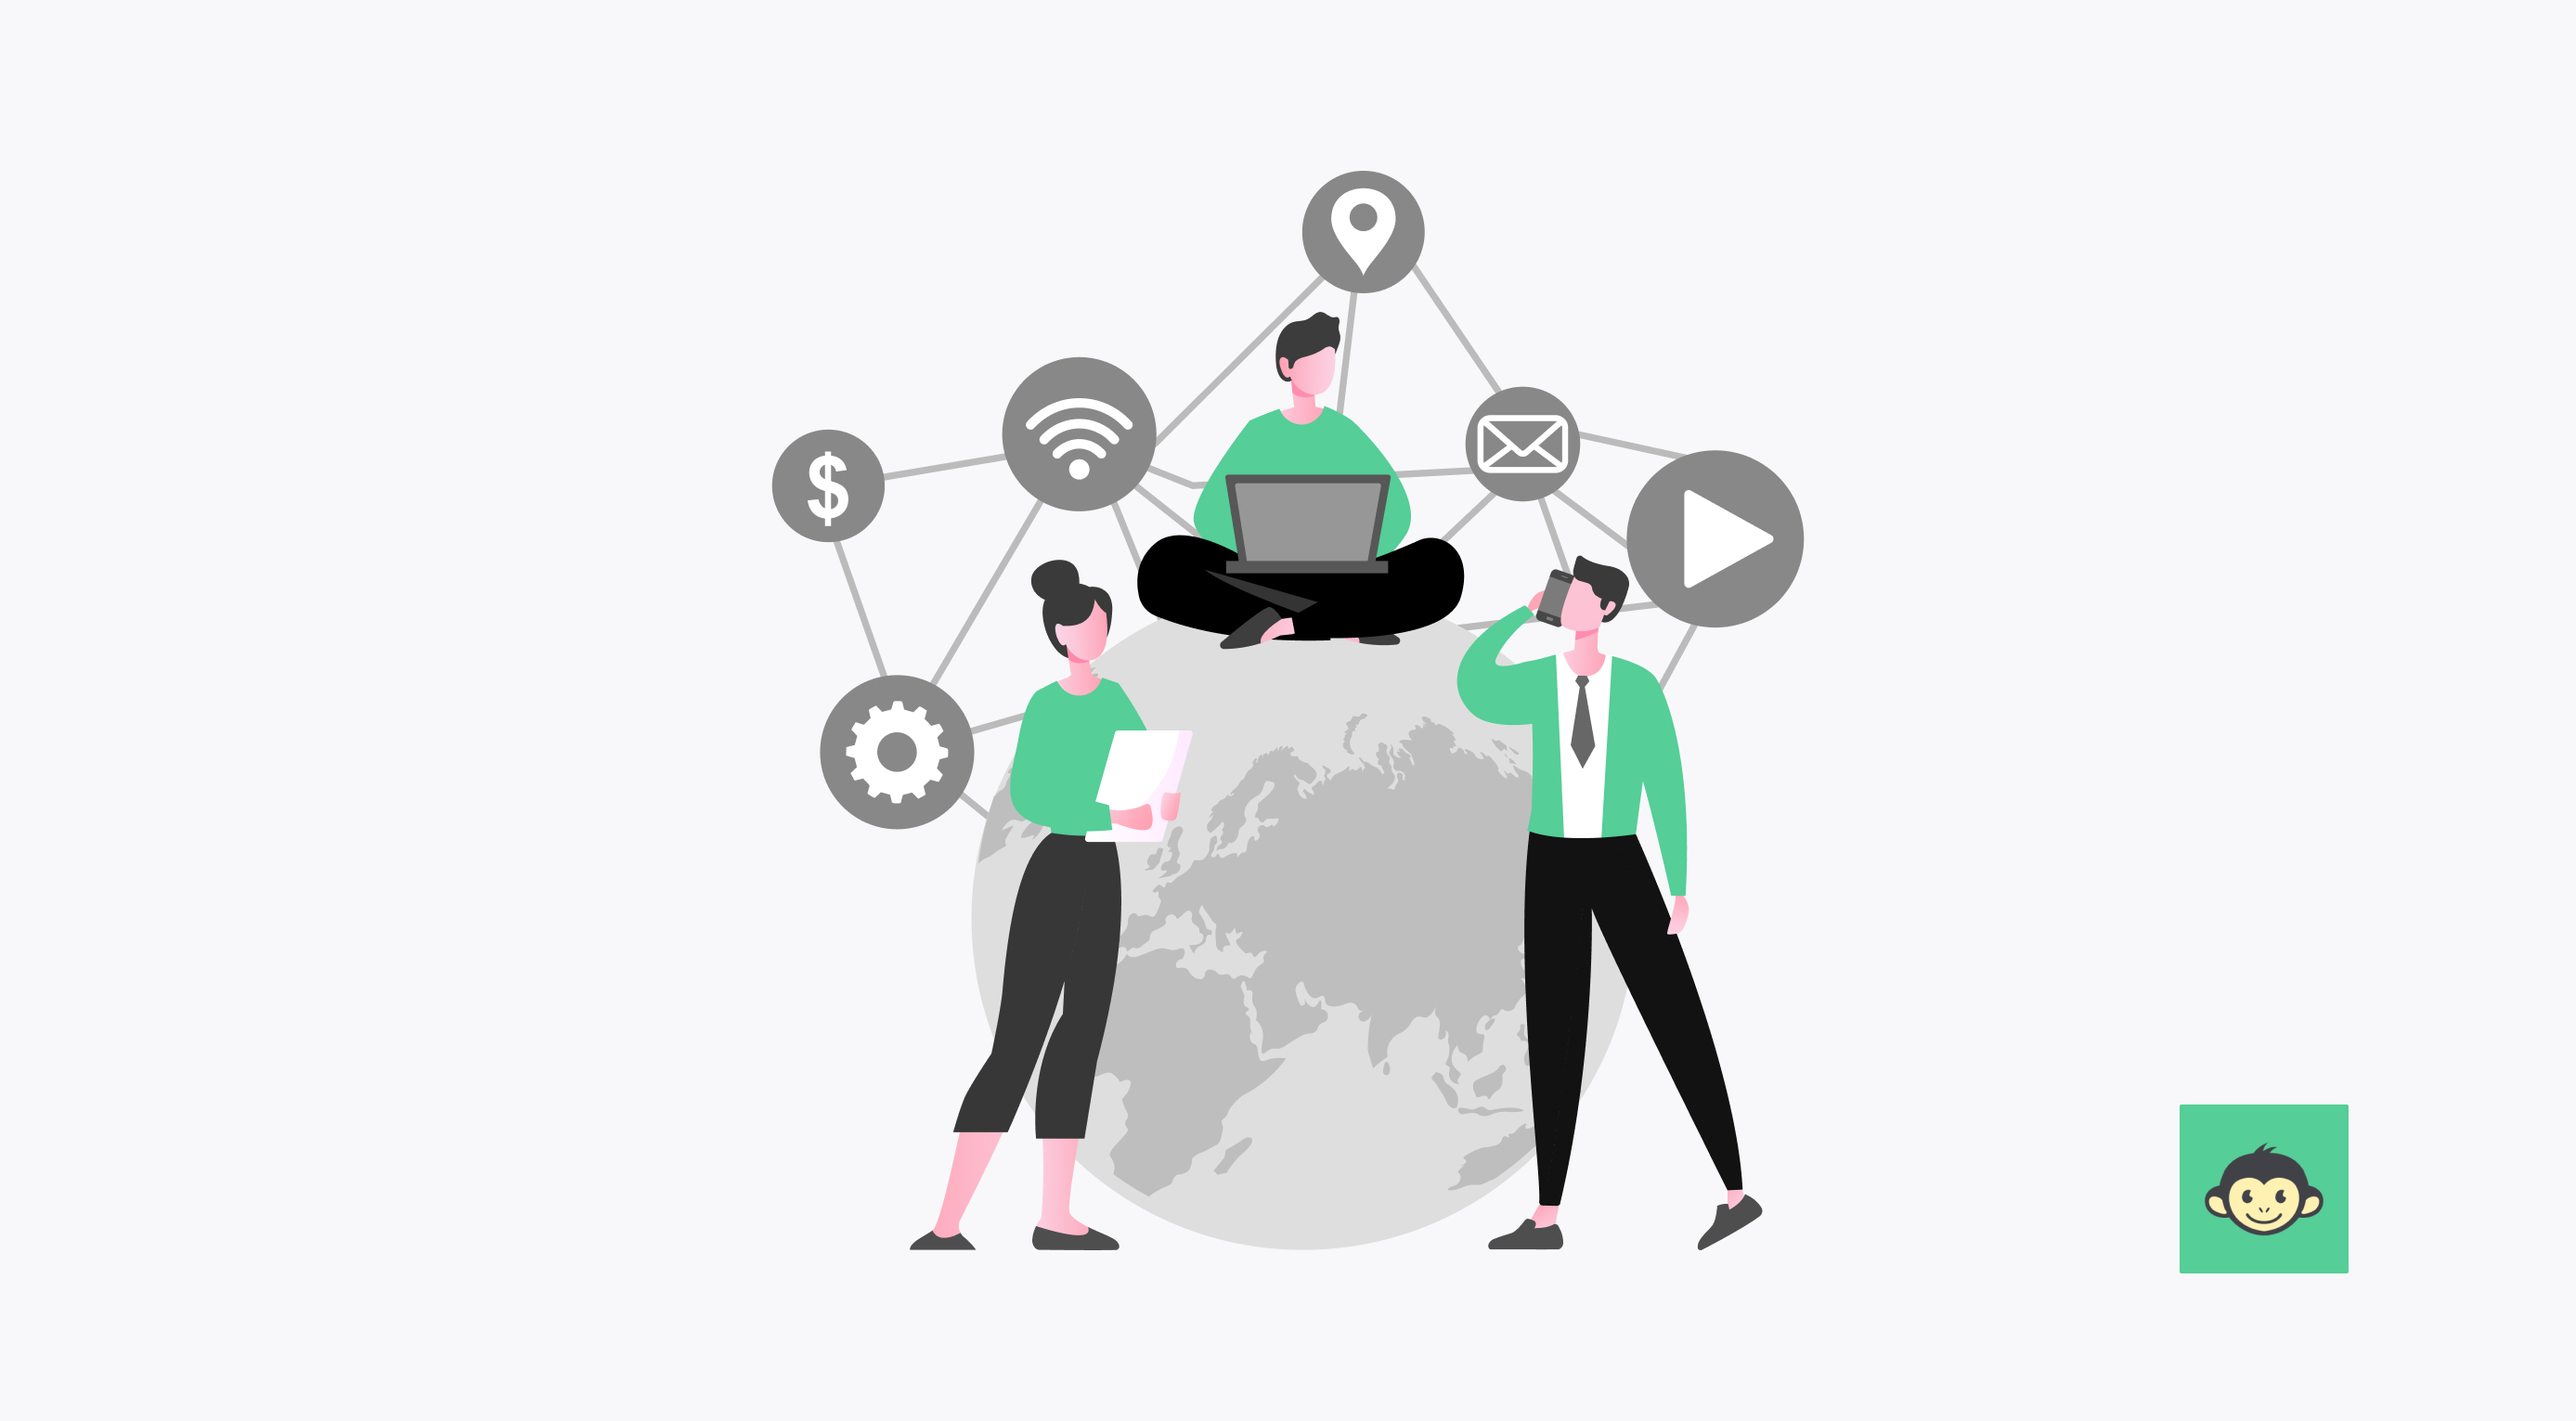
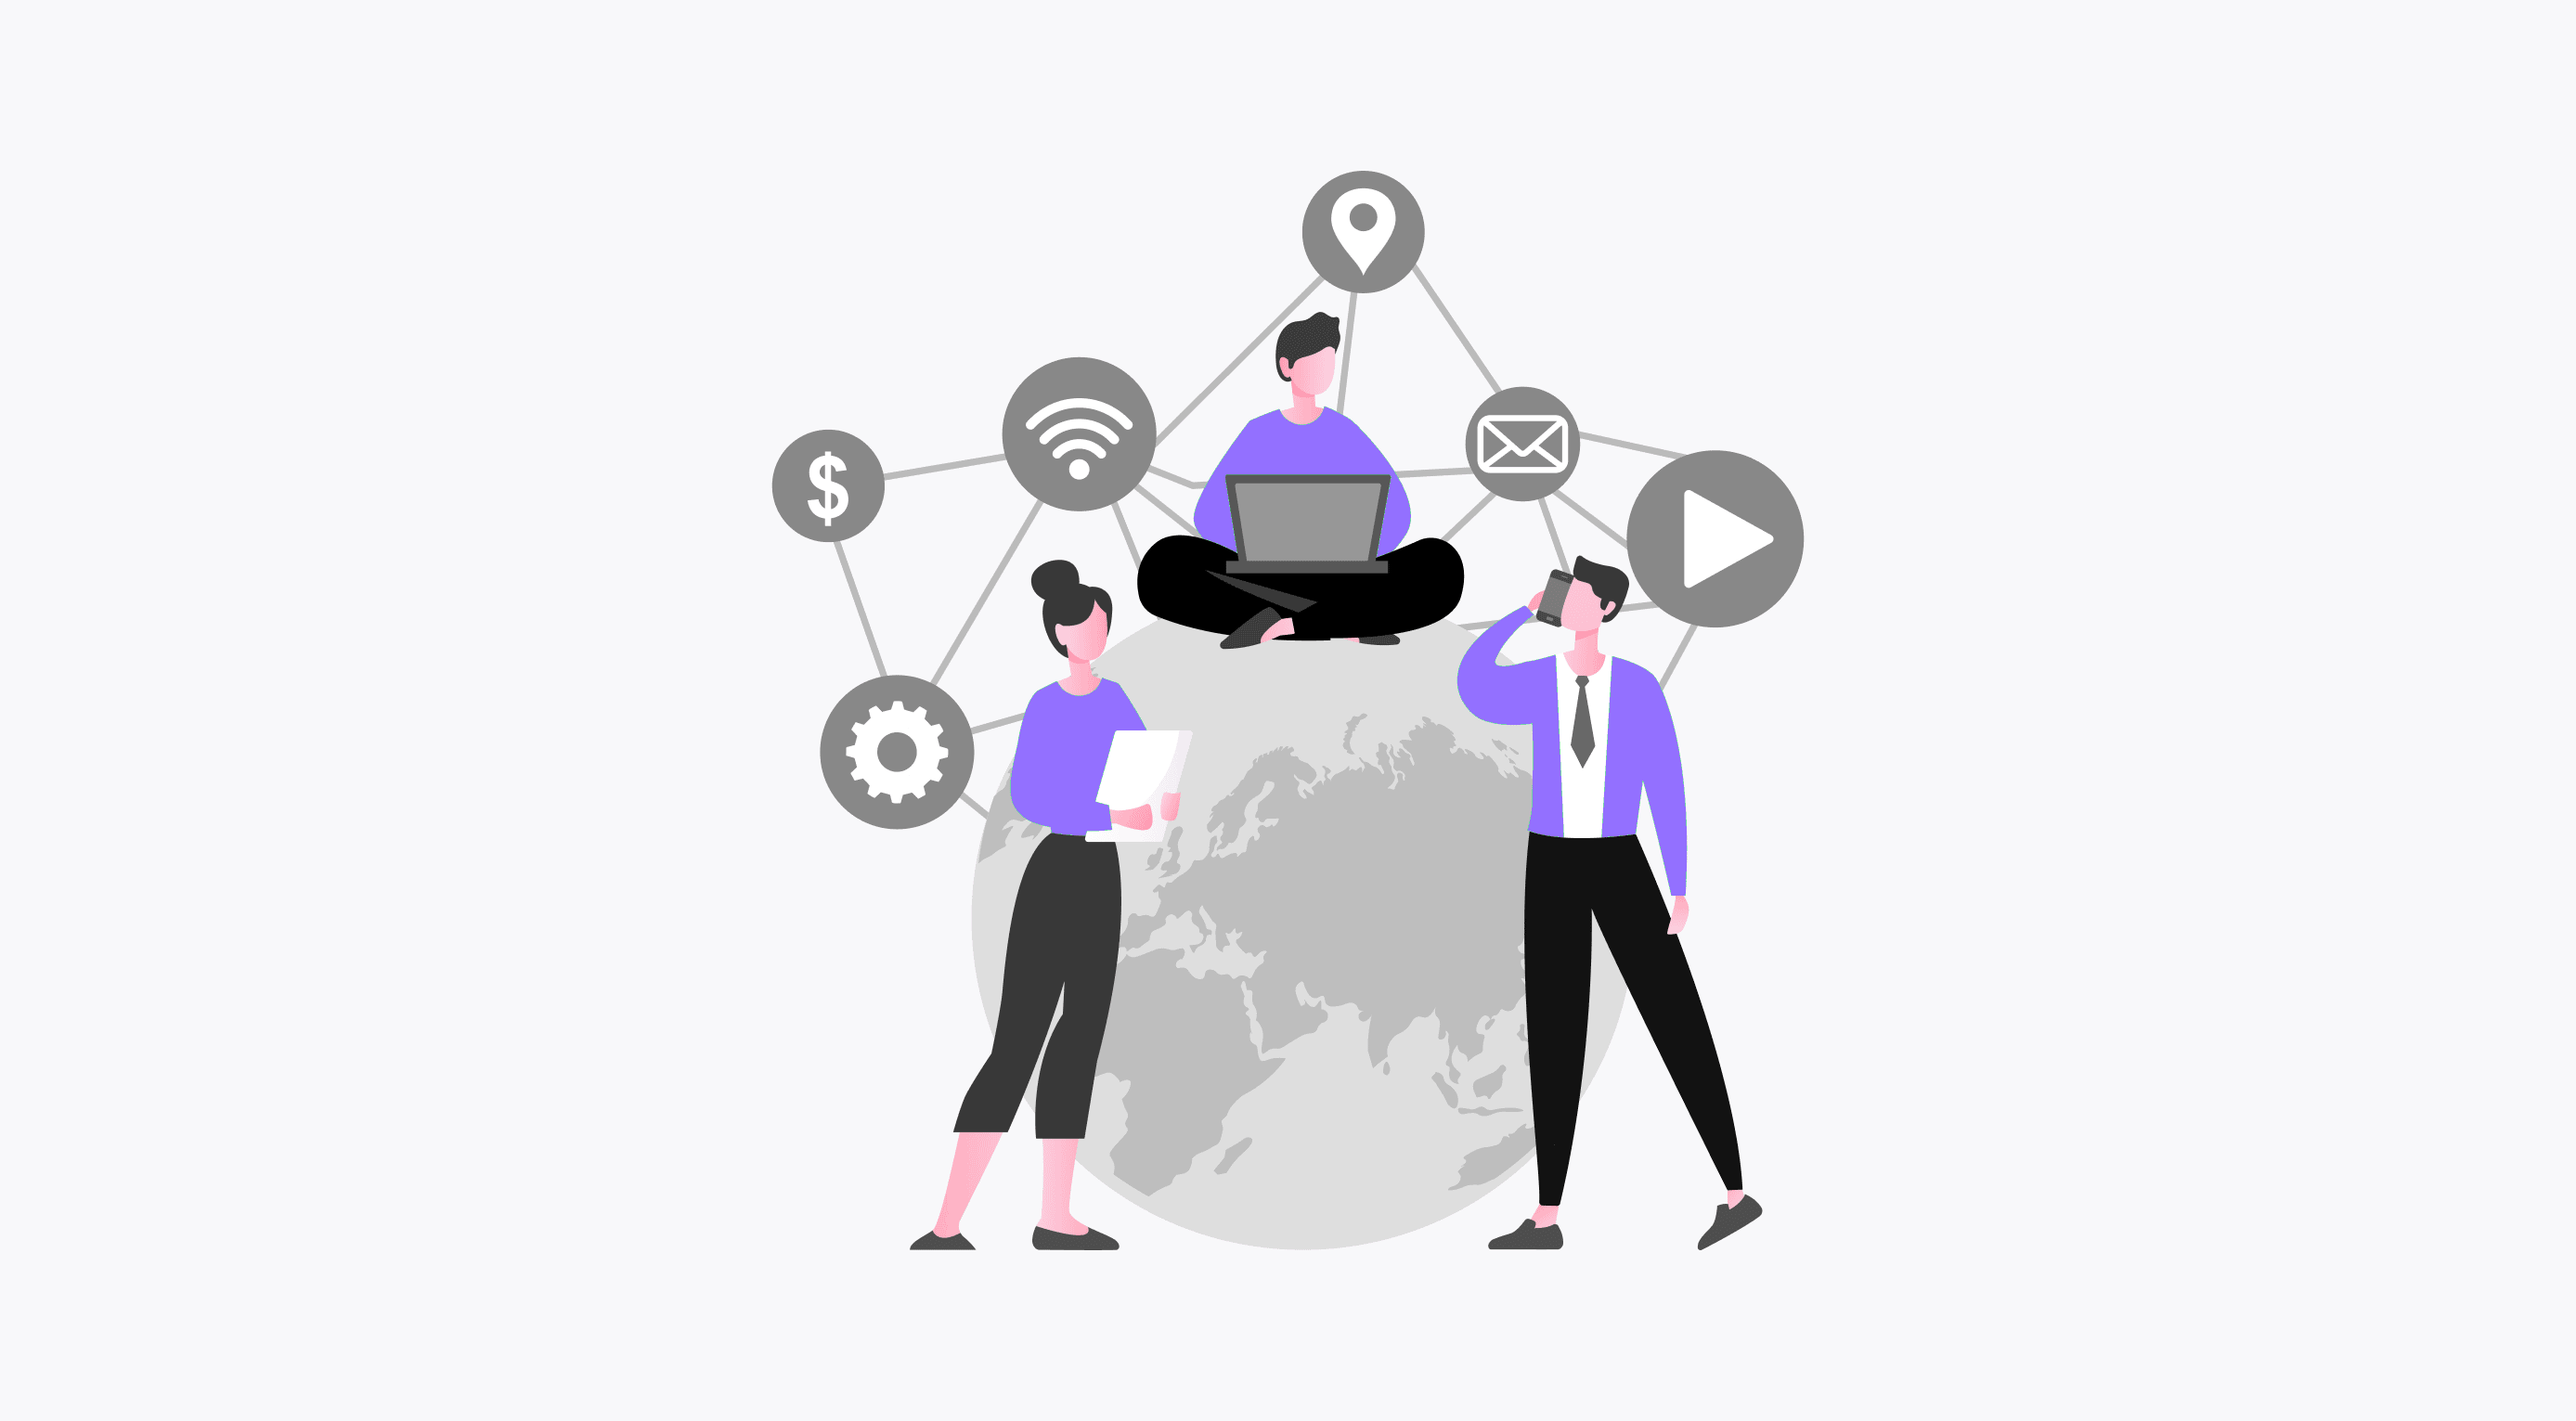
User session front end changes
User session front end changes

diff --git a/resources/views/components/dashboard-layout.blade.php b/resources/views/components/dashboard-layout.blade.php
@@ -176,19 +176,19 @@
                 <nav class="flex-1 px-4 py-6 overflow-y-auto">
                     <ul class="space-y-2">
                         <li>
-                            <a href="{{ route('dashboard.home') }}" class="flex items-center gap-3 px-4 py-3 rounded-lg hover:bg-primary/10 hover:text-primary transition {{ request()->routeIs('dashboard.home') ? 'bg-primary text-white' : 'text-base-content' }}">
+                            <a href="{{ route('dashboard.home') }}" onclick="return checkSessionBeforeNavigate(event)" class="flex items-center gap-3 px-4 py-3 rounded-lg hover:bg-primary/10 hover:text-primary transition {{ request()->routeIs('dashboard.home') ? 'bg-primary text-white' : 'text-base-content' }}">
                                 <span class="icon-[tabler--home] size-5"></span>
                                 <span class="font-semibold">Dashboard</span>
                             </a>
                         </li>
                         <li>
-                            <a href="{{ route('dashboard.profile') }}" class="flex items-center gap-3 px-4 py-3 rounded-lg hover:bg-primary/10 hover:text-primary transition {{ request()->routeIs('dashboard.profile') ? 'bg-primary text-white' : 'text-base-content' }}">
+                            <a href="{{ route('dashboard.profile') }}" onclick="return checkSessionBeforeNavigate(event)" class="flex items-center gap-3 px-4 py-3 rounded-lg hover:bg-primary/10 hover:text-primary transition {{ request()->routeIs('dashboard.profile') ? 'bg-primary text-white' : 'text-base-content' }}">
                                 <span class="icon-[tabler--user] size-5"></span>
                                 <span class="font-semibold">Profile</span>
                             </a>
                         </li>
                         <li>
-                            <a href="{{ route('dashboard.tasks') }}" class="flex items-center gap-3 px-4 py-3 rounded-lg hover:bg-primary/10 hover:text-primary transition {{ request()->routeIs('dashboard.tasks') ? 'bg-primary text-white' : 'text-base-content' }}">
+                            <a href="{{ route('dashboard.tasks') }}" onclick="return checkSessionBeforeNavigate(event)" class="flex items-center gap-3 px-4 py-3 rounded-lg hover:bg-primary/10 hover:text-primary transition {{ request()->routeIs('dashboard.tasks') ? 'bg-primary text-white' : 'text-base-content' }}">
                                 <span class="icon-[tabler--clipboard-list] size-5"></span>
                                 <span class="font-semibold">Tasks</span>
                             </a>
@@ -210,7 +210,7 @@
                         </li>
                         --}}
                         <li>
-                            <a href="{{ route('dashboard.upgrade') }}" class="flex items-center gap-3 px-4 py-3 rounded-lg hover:bg-warning/10 hover:text-warning transition {{ request()->routeIs('dashboard.upgrade') ? 'bg-warning text-white' : 'text-warning' }}">
+                            <a href="{{ route('dashboard.upgrade') }}" onclick="return checkSessionBeforeNavigate(event)" class="flex items-center gap-3 px-4 py-3 rounded-lg hover:bg-warning/10 hover:text-warning transition {{ request()->routeIs('dashboard.upgrade') ? 'bg-warning text-white' : 'text-warning' }}">
                                 <span class="icon-[tabler--crown] size-5"></span>
                                 <span class="font-semibold">Upgrade Plan</span>
                             </a>
@@ -232,15 +232,15 @@
             <div id="mobile_sidebar" class="hidden fixed left-0 top-0 h-screen w-64 bg-base-200 shadow-lg z-40 md:hidden flex flex-col">
                 <nav class="flex-1 px-4 py-6 overflow-y-auto">
                     <ul class="space-y-2">
-                        <li><a href="{{ route('dashboard.home') }}" class="flex items-center gap-3 px-4 py-3 rounded-lg hover:bg-primary/10 hover:text-primary text-base-content transition">
+                        <li><a href="{{ route('dashboard.home') }}" onclick="return checkSessionBeforeNavigate(event)" class="flex items-center gap-3 px-4 py-3 rounded-lg hover:bg-primary/10 hover:text-primary text-base-content transition">
                             <span class="icon-[tabler--home] size-5"></span>
                             <span class="font-semibold">Dashboard</span>
                         </a></li>
-                        <li><a href="{{ route('dashboard.profile') }}" class="flex items-center gap-3 px-4 py-3 rounded-lg hover:bg-primary/10 hover:text-primary text-base-content transition">
+                        <li><a href="{{ route('dashboard.profile') }}" onclick="return checkSessionBeforeNavigate(event)" class="flex items-center gap-3 px-4 py-3 rounded-lg hover:bg-primary/10 hover:text-primary text-base-content transition">
                             <span class="icon-[tabler--user] size-5"></span>
                             <span class="font-semibold">Profile</span>
                         </a></li>
-                        <li><a href="{{ route('dashboard.tasks') }}" class="flex items-center gap-3 px-4 py-3 rounded-lg hover:bg-primary/10 hover:text-primary text-base-content transition">
+                        <li><a href="{{ route('dashboard.tasks') }}" onclick="return checkSessionBeforeNavigate(event)" class="flex items-center gap-3 px-4 py-3 rounded-lg hover:bg-primary/10 hover:text-primary text-base-content transition">
                             <span class="icon-[tabler--clipboard-list] size-5"></span>
                             <span class="font-semibold">Tasks</span>
                         </a></li>
@@ -377,6 +377,39 @@
         <div id="toast_container" class="toast-container"></div>
 
         <script>
+            // Check session before navigating to dashboard pages
+            async function checkSessionBeforeNavigate(event) {
+                try {
+                    const response = await fetch('{{ route("auth.validate-session") }}', {
+                        method: 'GET',
+                        credentials: 'same-origin',
+                        headers: {
+                            'Accept': 'application/json',
+                            'X-Requested-With': 'XMLHttpRequest',
+                        }
+                    });
+
+                    const data = await response.json();
+
+                    if (!data.authenticated) {
+                        // Session expired - clear data and redirect
+                        localStorage.removeItem('user');
+                        showToast('Session expired. Redirecting to login...', 'error', 2000);
+                        setTimeout(() => {
+                            window.location.href = '{{ route("public.home") }}';
+                        }, 2000);
+                        return false; // Prevent navigation
+                    }
+                    
+                    // Session valid, allow navigation
+                    return true;
+                } catch (error) {
+                    console.error('Session check error:', error);
+                    // On error, allow navigation (server will handle auth)
+                    return true;
+                }
+            }
+
             // Toast Notification Function
             function showToast(message, type = 'success', duration = 4000) {
                 const container = document.getElementById('toast_container');
